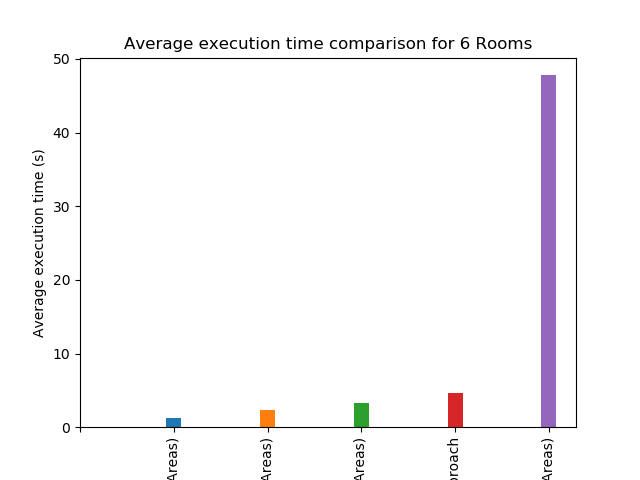
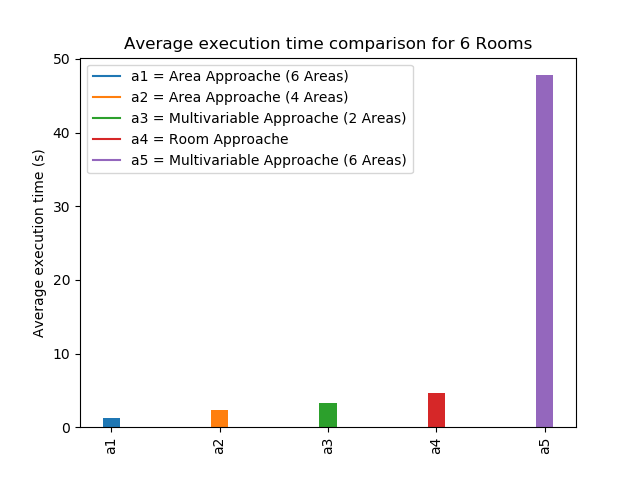
Minor updates on graphs

diff --git a/all.py b/all.py
@@ -1,5 +1,7 @@
 import matplotlib.pyplot as plt
 import numpy as np
+from matplotlib.patches import Rectangle
+
 
 def subcategorybar(X, vals, legend_array, width=0.8):
     mean_values = vals.mean(axis=1)
@@ -10,11 +12,12 @@ def subcategorybar(X, vals, legend_array, width=0.8):
 
     for i in range(n):
         plt.bar(X[i], mean_values[i], width=width/float(n), align='center')
+
     plt.xticks(_X, legend_array, rotation=90)
 
 
 # Chambre
-room_legend, =plt.plot([1,2,3,4,5,6], [4.546, 4.688, 4.576, 3.76, 4.856, 5.15], '-y', label='Room (6 agents)')
+room_legend, = plt.plot([1,2,3,4,5,6], [4.546, 4.688, 4.576, 3.76, 4.856, 5.15], '-y', label='Room (6 agents)')
 
 # Zone
 zone_legend_6, = plt.plot([1,2,3,4,5,6], [2.29, 2.28, 2.45, 2.19, 2.46, 2.42], '-sb', label='Area (6 agents)')
@@ -34,6 +37,13 @@ plt.show()
 
 # Histogram
 x = np.array([1, 2, 3, 4, 5, 6])
+legend_array = (
+        'a1 = Area Approach (6 Areas)',
+        'a2 = Area Approach (4 Areas)',
+        'a3 = Multivariable Approach (2 Areas)',
+        'a4 = Room Approach',
+        'a5 = Multivariable Approach (6 Areas)'
+    )
 
 subcategorybar(
     x,
@@ -44,18 +54,25 @@ subcategorybar(
         [4.546, 4.688, 4.576, 3.76, 4.856, 5.15],
         [50.26, 46.72, 47.69, 50.33, 44.04, 47.76]
     ]),
-    legend_array=[
+    [
         '',
-        'Area Approach (6 Areas)',
-        'Area Approach (4 Areas)',
-        'Multivariable Approach (2 Areas)',
-        'Room Approach',
-        'Multivariable Approach (6 Areas)'
+        'a1',
+        'a2',
+        'a3',
+        'a4',
+        'a5'
     ]
 )
 
+## Legend
+plt.plot([], [], '', label="a1 = Area Approache (6 Areas)")
+plt.plot([], [], '', label="a2 = Area Approache (4 Areas)")
+plt.plot([], [], '', label='a3 = Multivariable Approache (2 Areas)')
+plt.plot([], [], '', label='a4 = Room Approache')
+plt.plot([], [], '', label="a5 = Multivariable Approache (6 Areas)")
+plt.legend()
+
 plt.title('Average execution time comparison for 6 Rooms', loc='center')
-plt.xlabel('Approach')
 plt.ylabel('Average execution time (s)')
 plt.savefig('output/all_histogram.png')
 plt.show()
